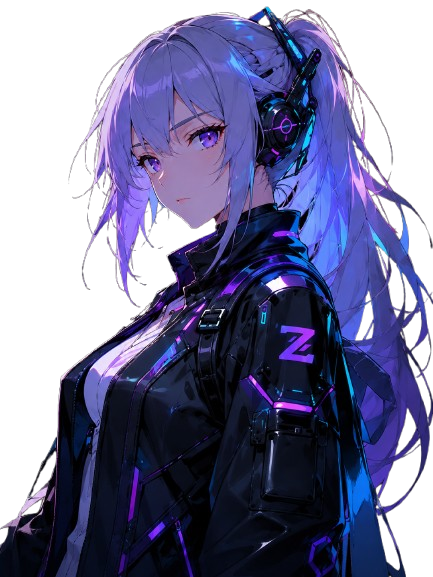
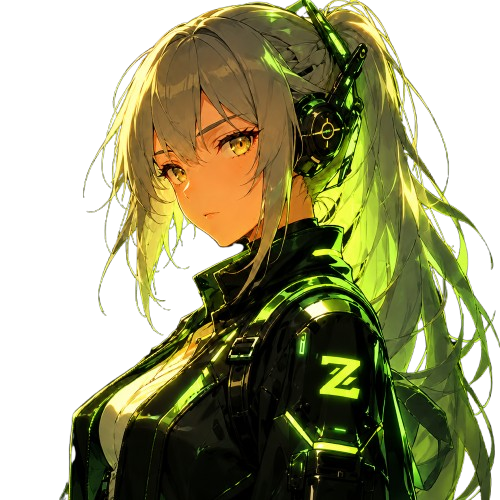
feat: align landing content to real CRM repo and clean gitignore

diff --git a/src/lib/data.ts b/src/lib/data.ts
@@ -1,72 +1,71 @@
 // Zetta CRM — landing content (single source of truth)
 
 export const ANNOUNCEMENT = {
-  text: 'Zetta CRM v1.0 is here.',
-  suffix: 'Self-hosted CRM for AI operators.',
-  cta: 'Read the v1.0 announcement',
-  href: '#changelog',
+  text: 'Open-source MCP CRM for AI agents.',
+  suffix: 'Backend is ready. Operator UI is coming soon.',
+  cta: 'View repository',
+  href: 'https://github.com/incredible-zetta/crm',
 };
 
 export const NAV = {
   brand: 'Zetta CRM',
   links: [
-    { label: 'Product', href: '#features' },
+    { label: 'MCP Tools', href: '#features' },
     { label: 'Deploy', href: '#deploy' },
     { label: 'Security', href: '#why' },
     { label: 'Docs', href: '#docs' },
-    { label: 'Pricing', href: '#pricing' },
-    { label: 'Changelog', href: '#changelog' },
+    { label: 'GitHub', href: 'https://github.com/incredible-zetta/crm' },
   ],
-  github: { label: 'Star', count: '3.2k', href: 'https://github.com/' },
-  cta: { label: 'Get Started', href: '#get-started' },
+  github: { label: 'GitHub', count: 'Open source', href: 'https://github.com/incredible-zetta/crm' },
+  cta: { label: 'Deploy Backend', href: '#deploy' },
 };
 
 export const HERO = {
-  eyebrow: 'Privacy-First · Self-Hosted · Operator-Focused',
-  titleA: 'The',
-  titleGradient: 'self-hosted',
-  titleB: 'CRM for AI operators',
-  sub: 'Own your data. Run it your way. No data stored on vendor servers — ever.',
-  primary: { label: 'Deploy Zetta CRM', href: '#deploy' },
-  secondary: { label: 'View on GitHub', href: 'https://github.com/' },
+  eyebrow: 'Open-Source · MCP Server · Self-Hosted',
+  titleA: 'CRM backend',
+  titleGradient: 'built for',
+  titleB: 'AI agents',
+  sub: 'A Go MCP server with contacts, email, campaigns, tracking, scheduling, and analytics. Operator UI is coming soon.',
+  primary: { label: 'Deploy Backend', href: '#deploy' },
+  secondary: { label: 'View on GitHub', href: 'https://github.com/incredible-zetta/crm' },
 };
 
 export const TRUST = [
-  { icon: 'shield-check', title: '100% Self-Hosted', desc: 'You control everything.' },
-  { icon: 'lock', title: 'No Vendor Storage', desc: 'Zero data leaves your infra.' },
-  { icon: 'key-round', title: 'Privacy by Design', desc: 'Built for operators, not advertisers.' },
+  { icon: 'shield-check', title: 'Self-hosted backend', desc: 'Run CRM data in your infra.' },
+  { icon: 'terminal', title: '28 MCP tools', desc: 'Agent-ready CRM operations.' },
+  { icon: 'key-round', title: 'API-key gated', desc: 'MCP endpoint stays private.' },
 ];
 
 export const FEATURES = [
-  { icon: 'users-round', title: 'Built for AI Operators', desc: 'Manage agents, conversations, tasks, and relationships in one powerful workspace.' },
-  { icon: 'zap', title: 'Agent-Centric CRM', desc: 'Designed for AI-native workflows and multi-agent collaboration at scale.' },
-  { icon: 'boxes', title: 'Extensible & Open', desc: 'Open source core, plugin-ready, and API-first.' },
-  { icon: 'shield', title: 'Enterprise Ready', desc: 'RBAC, audit logs, encryption, and compliance-friendly by default.' },
-  { icon: 'terminal', title: 'Developer Friendly', desc: 'Clean APIs, webhooks, and SDKs to build without limits.' },
+  { icon: 'users-round', title: 'Contacts for agents', desc: 'Create, update, import, export, unsubscribe, and delete contacts through MCP tools.' },
+  { icon: 'mail', title: 'Email + templates', desc: 'Send SMTP or Mailgun email, render templates, and reuse merge variables.' },
+  { icon: 'megaphone', title: 'Campaign engine', desc: 'Create campaigns, schedule dispatches, and track delivery, opens, and clicks.' },
+  { icon: 'calendar-clock', title: 'Built-in scheduler', desc: 'Queue email and campaign tasks without another worker service.' },
+  { icon: 'bar-chart-3', title: 'Analytics overview', desc: 'Give agents compact CRM metrics without wasting context tokens.' },
 ];
 
 export const DEPLOY_RAIL = [
-  { icon: 'container', title: 'Docker', sub: 'Run anywhere' },
-  { icon: 'ship-wheel', title: 'Kubernetes', sub: 'Scale with ease' },
-  { icon: 'code-xml', title: 'API', sub: 'Integrate freely' },
-  { icon: 'database', title: 'Local DB', sub: 'Your data, local' },
-  { icon: 'network', title: 'Vector Store', sub: 'Private by default' },
-  { icon: 'bot', title: 'AI Agents', sub: 'Plug in your stack' },
+  { icon: 'container', title: 'Docker image', sub: 'One-port deploy' },
+  { icon: 'binary', title: 'Single binary', sub: 'Go backend' },
+  { icon: 'plug', title: 'MCP HTTP', sub: 'POST /mcp' },
+  { icon: 'database', title: 'MySQL', sub: 'Single database' },
+  { icon: 'mail', title: 'SMTP/Mailgun', sub: 'Email providers' },
+  { icon: 'bot', title: 'AI agents', sub: 'CRM tools ready' },
 ];
 
 export const WHY = [
-  { icon: 'lock', title: 'Total Data Ownership', desc: 'Your data never leaves your environment.' },
-  { icon: 'shield-check', title: 'Stronger Privacy', desc: 'No cross-tenant risk. No tracking. No selling.', highlight: 'No cross-tenant risk.' },
-  { icon: 'globe', title: 'Compliance Ready', desc: 'Meet internal policies and industry requirements.' },
-  { icon: 'badge-dollar-sign', title: 'No Vendor Lock-In', desc: 'Open standards. Export your data anytime.' },
+  { icon: 'lock', title: 'Own your CRM data', desc: 'Contacts, campaigns, templates, and analytics stay in your database.' },
+  { icon: 'shield-check', title: 'Private MCP endpoint', desc: 'Bearer or X-API-Key auth gates every agent tool call.', highlight: 'Bearer or X-API-Key auth' },
+  { icon: 'globe', title: 'Public tracking routes', desc: 'Click, open, and export routes work for email recipients without agent credentials.' },
+  { icon: 'badge-dollar-sign', title: 'Open-source core', desc: 'Clone, audit, deploy, and adapt the backend without vendor lock-in.' },
 ];
 
 export const CTA_BAND = {
-  titleA: 'Spin up your own private instance',
-  titleGradient: 'in minutes.',
-  sub: 'Deploy Zetta CRM on your own infrastructure and keep every byte of customer data under your control.',
-  primary: { label: 'Deploy Zetta CRM', href: '#deploy' },
-  secondary: { label: 'Read the Docs', href: '#docs' },
+  titleA: 'Connect AI agents to a real CRM backend',
+  titleGradient: 'today.',
+  sub: 'Deploy the open-source Go MCP server, point your agents at POST /mcp, and keep customer data under your control.',
+  primary: { label: 'Deploy Backend', href: '#deploy' },
+  secondary: { label: 'View GitHub', href: 'https://github.com/incredible-zetta/crm' },
 };
 
 export const DM_NAV = [